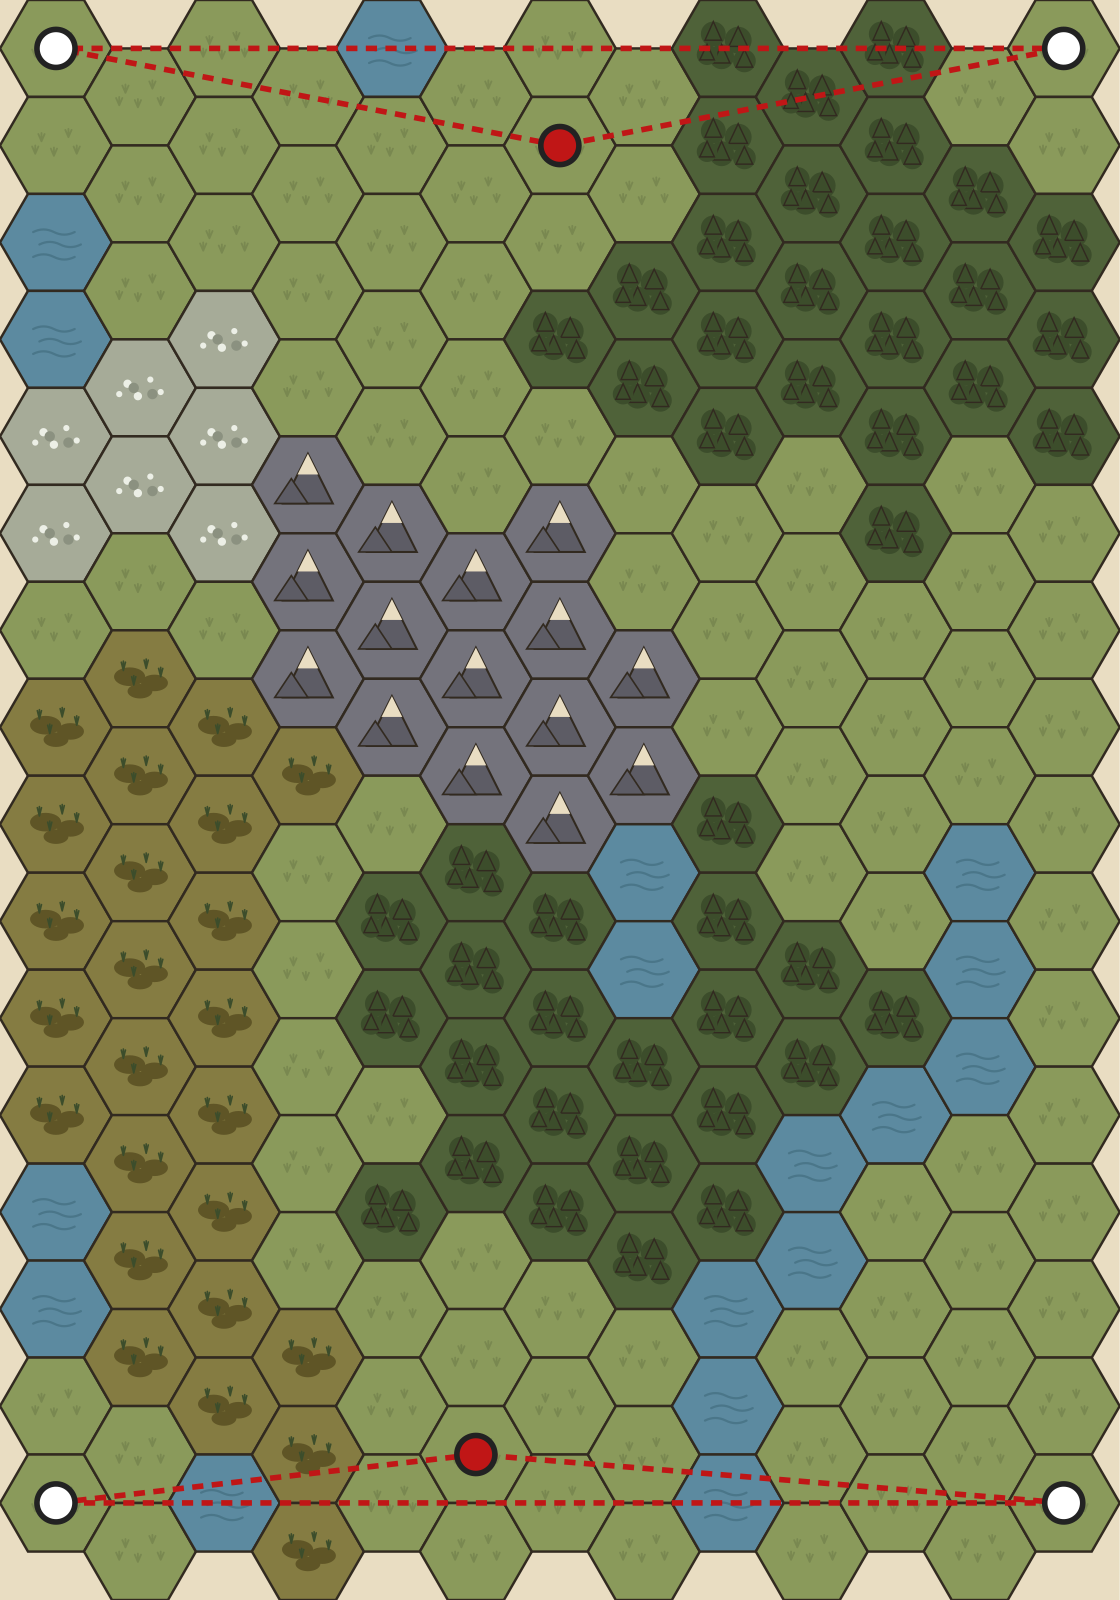
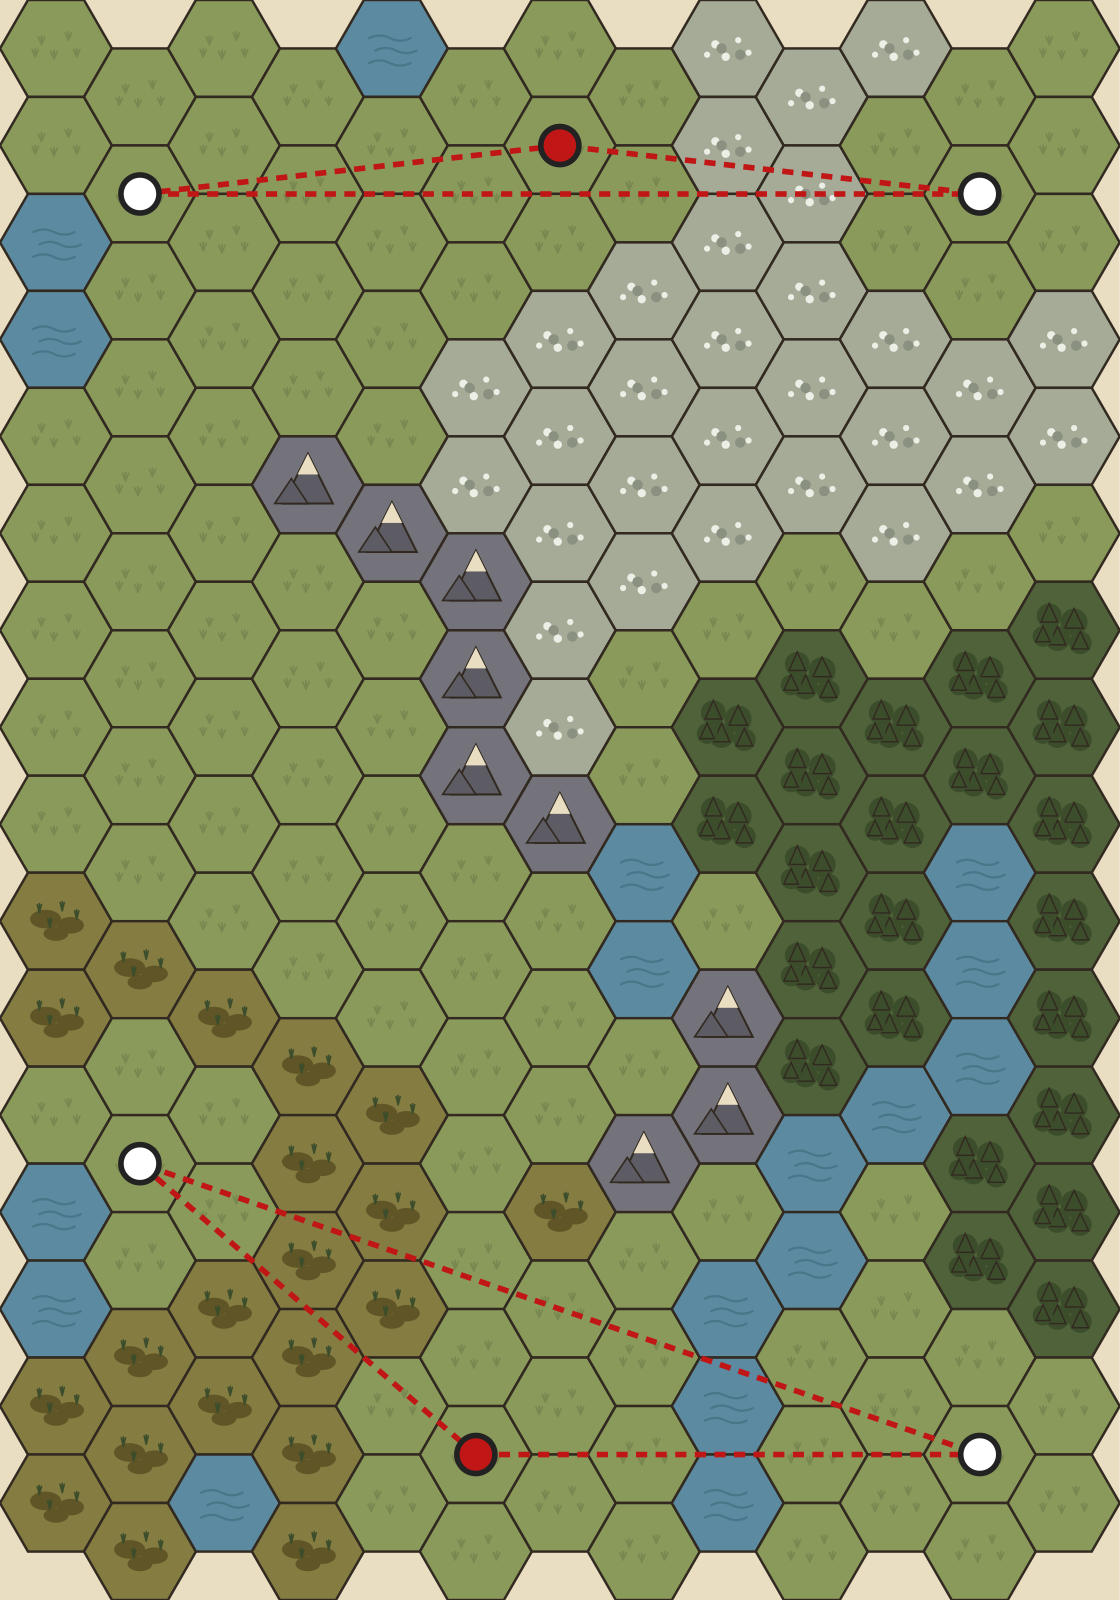
v0.4.9.3: wiki + reference pages, Mill merge, Cipher Chamber

diff --git a/Combatv3/mapgen/mapgen.py b/Combatv3/mapgen/mapgen.py
@@ -369,6 +369,7 @@ def _place_regions(m, p, rng):
             def cands(cross):
                 return [h.coord for h in m.all()
                         if buildable(h.coord)
+                        and len(m.neighbors(h.coord)) == 6      # room for a range-1 ring
                         and SEP <= distance(h.coord, cap) <= SMAX
                         and all(distance(h.coord, o) >= SEP for o in others)
                         and (not cross or all(distance(h.coord, o) >= SEP for o in placed_all))]
